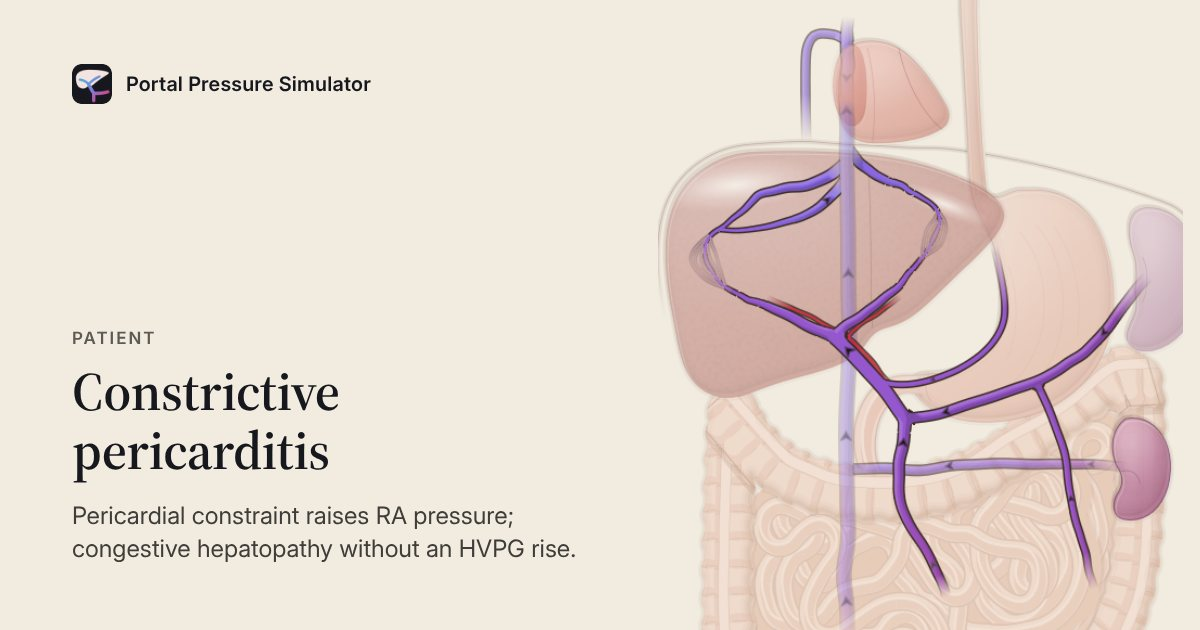
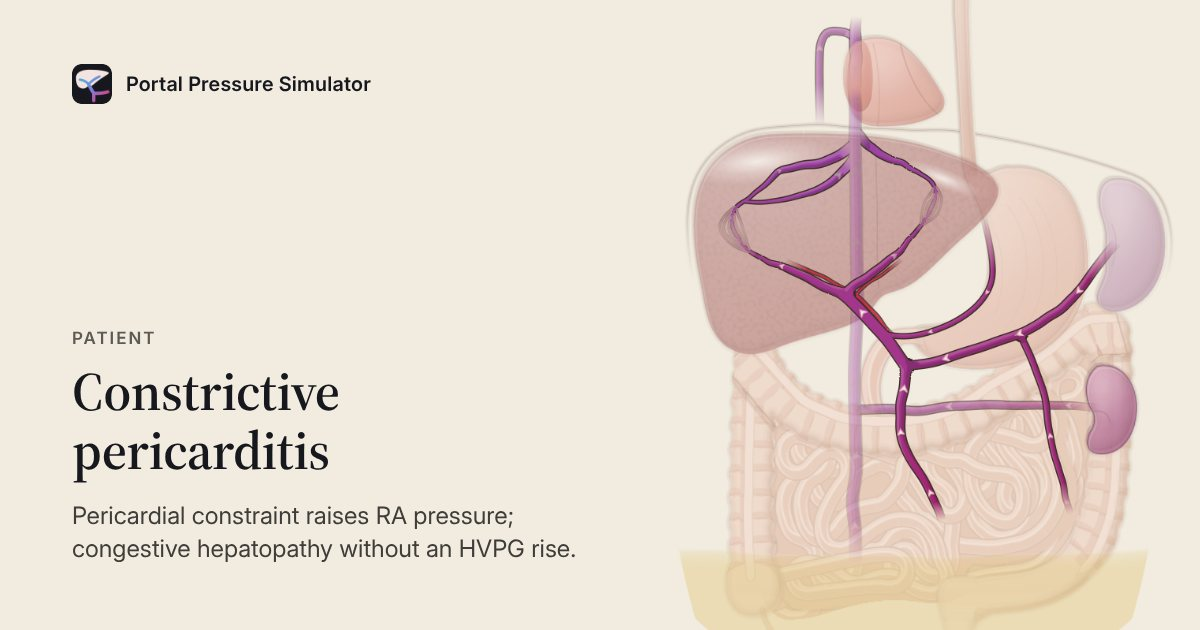
Three patients re-tuned: reversed-flow cirrhosis renamed, acute PVT keeps its output, constrictive pericarditis reaches RA 15+
A22 (Mohammad: Sure). End-stage cirrhosis, hepatofugal flow is now Cirrhosis with reversed portal flow. Acute PVT loads 300 mL (CO 3.5 to 4.9, MAP 82 to 92). Constrictive pericarditis limits the heart's filling (PERICARDIAL_FILL 0.6) and loads 1150 mL (RA 10.5 to 15.7, CO 3.0 to 3.9, MAP 79 to 89). Snapshots, share cards, docs and tests follow. Lint's source-shape rules for the embed, wake-lock and share changes move to rules-lint (PR-02).

Claude-Session: https://claude.ai/code/session_019srS21BY5oz9U3hHYigiNr

Changed region(s): [[0.555, 0.0, 0.9867, 1.0]]

diff --git a/src/engine/scenario.js b/src/engine/scenario.js
@@ -92,7 +92,9 @@ export const PRESETS = [
   { id: 'postprandial', group: 'Normal', label: 'Postprandial', apply: P({ meal: 1 }), days: 0,
     summary: 'Meal-induced splanchnic vasodilation increases portal inflow and pressure slightly.',
     note: 'Postprandial splanchnic vasodilation raises portal inflow, so the portal pressure rises slightly.' },
-  { id: 'pvt-acute', group: 'Pre-hepatic', label: 'Acute portal vein thrombosis', apply: P({ thrombus: { PV_TRUNK: 1 } }), days: 0,
+  // (volume 300: the congested mesenteric bed gives back blood to the central circulation by venoconstriction and the sympathetic reflex, so cardiac output stays near normal
+  // (4.9 L/min, MAP 92 mmHg, heart rate 63) instead of falling to 3.5 with the splanchnic return blocked; 13 Nov 2026.)
+  { id: 'pvt-acute', group: 'Pre-hepatic', label: 'Acute portal vein thrombosis', apply: P({ thrombus: { PV_TRUNK: 1 } }), days: 0, volume: 300,
     summary: 'Occlusive thrombus in the main portal vein. Mesenteric congestion; no collaterals yet (they form over weeks). The hepatic arterial buffer response maintains liver perfusion. HVPG normal.',
     note: 'Occlusive thrombus in the main portal vein. No collaterals yet; the hepatic arterial buffer maintains liver perfusion.' },
   { id: 'pvt-chronic', group: 'Pre-hepatic', label: 'Chronic PVT (cavernous transformation)', apply: P({ thrombus: { PV_TRUNK: 1 } }), days: 240,
@@ -125,7 +127,7 @@ export const PRESETS = [
   { id: 'cirr-decomp', group: 'Sinusoidal', label: 'Decompensated cirrhosis', apply: P({ cirrhosis: 0.85, albumin: 2.8, diuretics: true }), days: 540,
     summary: 'HVPG ≥16 mmHg, large varices, ascites, splenomegaly, hyperdynamic circulation.',
     note: 'HVPG ≥16 mmHg. Large varices, ascites, splenomegaly and a hyperdynamic circulation.' },
-  { id: 'cirr-hepatofugal', group: 'Sinusoidal', label: 'End-stage cirrhosis, hepatofugal flow', apply: P({ cirrhosis: 0.95, apShunt: 1, albumin: 2.6, diuretics: true, spontaneous: { C6: true } }), days: 540,
+  { id: 'cirr-hepatofugal', group: 'Sinusoidal', label: 'Cirrhosis with reversed portal flow', apply: P({ cirrhosis: 0.95, apShunt: 1, albumin: 2.6, diuretics: true, spontaneous: { C6: true } }), days: 540,
     summary: 'Very high sinusoidal resistance plus arterioportal shunting: the portal vein reverses and drains the liver into collaterals.',
     note: 'Very high sinusoidal resistance plus arterioportal shunting. Portal flow reverses into collaterals.' },
   { id: 'gastric-varix', group: 'Sinusoidal', label: 'Cirrhosis with gastrorenal shunt', apply: P({ cirrhosis: 0.9, albumin: 3.0, diuretics: true, spontaneous: { C5: true }, isolatedGV: true }), days: 450,
@@ -148,7 +150,8 @@ export const PRESETS = [
   { id: 'rhf', group: 'Cardiac', label: 'Right heart failure + TR', apply: P({ contractility: 0.25, tr: 0.9 }), days: 60, volume: 1300,
     summary: 'High RA pressure is transmitted back: FHVP and WHVP both rise so HVPG stays normal; the portal vein becomes pulsatile.',
     note: 'High right atrial pressure is transmitted back. FHVP and WHVP both rise, so HVPG stays normal; portal flow is pulsatile.' },
-  { id: 'constrictive', group: 'Cardiac', label: 'Constrictive pericarditis', apply: P({ pericardial: 0.9 }), days: 60, volume: 600,
+  // (volume 1150 with the pericardium limiting the heart's filling (engine.js PERICARDIAL_FILL): RA about 16 mmHg, cardiac output 3.9, MAP 89, ascites about 3 L, HVPG normal; 13 Nov 2026.)
+  { id: 'constrictive', group: 'Cardiac', label: 'Constrictive pericarditis', apply: P({ pericardial: 0.9 }), days: 60, volume: 1150,
     summary: 'Pericardial constraint raises RA pressure; congestive hepatopathy without an HVPG rise.',
     note: 'Pericardial constriction raises RA pressure. Congestive hepatopathy without a rise in HVPG.' },
 ];

diff --git a/src/ui/snapshots.js b/src/ui/snapshots.js
@@ -4,7 +4,7 @@ export const PATH = [["INT","Gut"],["SMV","SMV"],["CONF","Portal v."],["SIN_R","
 export const SNAPSHOTS = {
   "healthy":{"P":[12,9,7.8,7,4.8,4.1,3.5,3],"hvpg":2.4,"pv":7.8,"pvFlow":1.09,"ascites":0,"fp":{"pv":7.8,"whvp":6.5,"fhvp":4.1,"ra":3,"ivc":3.5,"ppg":4.3,"hvpg":2.4,"asc":0,"saag":2.3,"tp":2.9,"lsm":5}},
   "postprandial":{"P":[14.8,10.7,9,7.9,5,4.1,3.3,2.7],"hvpg":3.2,"pv":9,"pvFlow":1.65,"ascites":0,"fp":{"pv":9,"whvp":7.3,"fhvp":4.1,"ra":2.7,"ivc":3.3,"ppg":5.7,"hvpg":3.2,"asc":0,"saag":2.1,"tp":3.2,"lsm":5.4}},
-  "pvt-acute":{"P":[29.7,29.1,28.8,5.1,3.1,2.5,2,1.5],"hvpg":2.2,"pv":28.8,"pvFlow":0,"ascites":0,"fp":{"pv":28.8,"whvp":4.7,"fhvp":2.5,"ra":1.5,"ivc":2,"ppg":26.8,"hvpg":2.2,"asc":0,"saag":3.2,"tp":1.3,"lsm":5}},
+  "pvt-acute":{"P":[32.2,31.5,31.2,6.1,4.3,3.7,3.2,2.7],"hvpg":2.1,"pv":31.2,"pvFlow":0,"ascites":0,"fp":{"pv":31.2,"whvp":5.8,"fhvp":3.7,"ra":2.7,"ivc":3.2,"ppg":28,"hvpg":2.1,"asc":0,"saag":3.3,"tp":1.2,"lsm":5}},
   "pvt-chronic":{"P":[22.6,20.2,19.4,7.7,5.8,5.2,4.7,4.1],"hvpg":2.1,"pv":19.4,"pvFlow":0,"ascites":0,"fp":{"pv":19.4,"whvp":7.3,"fhvp":5.2,"ra":4.1,"ivc":4.7,"ppg":14.7,"hvpg":2.1,"asc":0,"saag":2.7,"tp":2.2,"lsm":5}},
   "svt":{"P":[11.1,8.1,6.9,6.5,4.4,3.7,3.2,2.7],"hvpg":2.3,"pv":6.9,"pvFlow":0.66,"ascites":0,"fp":{"pv":6.9,"whvp":6,"fhvp":3.7,"ra":2.7,"ivc":3.2,"ppg":3.7,"hvpg":2.3,"asc":0,"saag":2.4,"tp":2.8,"lsm":5}},
   "schisto":{"P":[23.5,21.3,20.6,9.3,5.5,5,4.5,4],"hvpg":3.5,"pv":20.6,"pvFlow":0.86,"ascites":0,"fp":{"pv":20.6,"whvp":8.5,"fhvp":5,"ra":4,"ivc":4.5,"ppg":16.1,"hvpg":3.5,"asc":0,"saag":2.6,"tp":2.4,"lsm":6.1}},
@@ -20,5 +20,5 @@ export const SNAPSHOTS = {
   "budd-chiari":{"P":[28.8,26.3,25.3,24.8,24.4,24.4,4,3.5],"hvpg":0.3,"pv":25.3,"pvFlow":0.69,"ascites":7.3,"fp":{"pv":25.3,"whvp":24.7,"fhvp":24.4,"ra":3.5,"ivc":4,"ppg":21.3,"hvpg":0.3,"asc":7275,"saag":1.4,"tp":4.3,"lsm":41.7}},
   "ivc-web":{"P":[20.2,18.1,17.2,16.6,15.8,15.6,15.2,2.9],"hvpg":0.9,"pv":17.2,"pvFlow":0.99,"ascites":2.5,"fp":{"pv":17.2,"whvp":16.5,"fhvp":15.6,"ra":2.9,"ivc":15.2,"ppg":2,"hvpg":0.9,"asc":2545,"saag":1.4,"tp":4.3,"lsm":24.1}},
   "rhf":{"P":[22.6,21.1,20.5,20.1,19.6,19.4,19.1,19],"hvpg":0.6,"pv":20.5,"pvFlow":0.68,"ascites":5.5,"fp":{"pv":20.5,"whvp":20,"fhvp":19.4,"ra":19,"ivc":19.1,"ppg":1.4,"hvpg":0.6,"asc":5471,"saag":1.4,"tp":4.3,"lsm":31.8}},
-  "constrictive":{"P":[14.9,13.3,12.7,12.3,11.3,11,10.7,10.5],"hvpg":1.1,"pv":12.7,"pvFlow":0.66,"ascites":0.4,"fp":{"pv":12.7,"whvp":12.1,"fhvp":11,"ra":10.5,"ivc":10.7,"ppg":2,"hvpg":1.1,"asc":399,"saag":1.5,"tp":4.1,"lsm":15}},
+  "constrictive":{"P":[20.3,18.5,17.8,17.2,16.5,16.3,15.9,15.7],"hvpg":0.8,"pv":17.8,"pvFlow":0.86,"ascites":3.3,"fp":{"pv":17.8,"whvp":17.1,"fhvp":16.3,"ra":15.7,"ivc":15.9,"ppg":1.9,"hvpg":0.8,"asc":3294,"saag":1.4,"tp":4.3,"lsm":25.6}},
 };

diff --git a/tests/share-pages.test.js b/tests/share-pages.test.js
@@ -42,27 +42,13 @@ test('a page names the case\'s picture, absolute when the site address is known,
   assert.match(bare, /twitter:card" content="summary"/);
 });
 
-test('the app\'s own page and manifest carry the preview picture and one theme colour', async () => {
+test('the manifest\'s theme colour is the light page colour', async () => {
   const { readFileSync } = await import('node:fs');
-  const html = readFileSync(new URL('../index.html', import.meta.url), 'utf8');
-  assert.match(html, /og:image" content="https:\/\/[^"]+\/brand\/share\/healthy\.jpg"/);
-  assert.match(html, /twitter:card" content="summary_large_image"/);
   const man = JSON.parse(readFileSync(new URL('../manifest.webmanifest', import.meta.url), 'utf8'));
   assert.equal(man.theme_color, '#F1EBE0');
-  assert.match(html, /name="theme-color" content="#F1EBE0" media="\(prefers-color-scheme: light\)"/);
 });
 
-test('?embed: set on <html> before the first paint, hides the top bar, and the app skips its worker, hint and ask', async () => {
-  const { readFileSync } = await import('node:fs');
-  const html = readFileSync(new URL('../index.html', import.meta.url), 'utf8');
-  assert.match(html, /\[\?&\]embed\(\?=\[=&#\]\|\$\)\/\.test\(location\.search\)\)document\.documentElement\.setAttribute\('data-embed',''\)/);
-  assert.ok(html.indexOf("'data-embed'") < html.indexOf('styles/app.css'));
-  assert.match(readFileSync(new URL('../styles/app.css', import.meta.url), 'utf8'), /html\[data-embed\] \.topbar/);
-  const main = readFileSync(new URL('../src/ui/main.js', import.meta.url), 'utf8');
-  assert.match(main, /location\.protocol !== 'file:' && !EMBED/);
-  assert.match(main, /function showFirstHint\(\) \{\n {2}if \(EMBED\) return;/);
-  assert.match(main, /function armFeedbackAsk\(\) \{\n {2}if \(EMBED\) return;/);
-  assert.match(readFileSync(new URL('../src/ui/presenter.js', import.meta.url), 'utf8'), /function stop\(restore = true\) \{\n {4}if \(!deck \|\| leaving \|\| document\.documentElement\.hasAttribute\('data-embed'\)\) return;/);
+test('?embed is told apart from other words that start with it', () => {
   const re = /[?&]embed(?=[=&#]|$)/;
   for (const q of ['?embed', '?embed&preset=x', '?preset=x&embed=1', '?x=1&embed#s=1']) assert.ok(re.test(q), q);
   for (const q of ['?embedded', '?notembed', '']) assert.ok(!re.test(q), q);

diff --git a/tests/acceptance.test.js b/tests/acceptance.test.js
@@ -95,7 +95,7 @@ test('T7 decompensated cirrhosis + splenorenal shunt: splenic vein reverses', ()
   assert.ok(Q(e, 'SV_CONF') < 0, `SV flow ${Q(e, 'SV_CONF')}`);
 });
 
-test('T8 end-stage cirrhosis with arterioportal shunting: hepatofugal portal vein', () => {
+test('T8 cirrhosis with arterioportal shunting and reversed portal flow: hepatofugal portal vein', () => {
   const e = preset('cirr-hepatofugal');
   assert.ok(Q(e, 'PV_TRUNK') < 0, `PV flow ${Q(e, 'PV_TRUNK')}`);
 });
@@ -318,4 +318,22 @@ test('T-MASLD part of the resistance is before the sinusoids: the HVPG under-rea
   assert.ok(m.ascites.volume < 150, `ascites ${m.ascites.volume} mL`);
   const csph = M(preset('csph'));
   assert.ok(m.ppg - m.hvpg > csph.ppg - csph.hvpg, 'the gap is wider than in sinusoidal CSPH');
+});
+
+test('T-PVT acute portal vein thrombosis keeps a near-normal output (the congested bed gives its blood back), HVPG normal', () => {
+  const m = M(preset('pvt-acute'));
+  within(m.co, 4.5, 5.3, 'CO');
+  within(m.map, 88, 96, 'MAP');
+  within(m.pvFlow, -0.05, 0.05, 'portal flow');
+  within(m.hvpg, 0, 4, 'HVPG');
+});
+
+test('T-CON constrictive pericarditis: RA 15+ with a low-normal output, normal HVPG, ascites', () => {
+  const m = M(preset('constrictive'));
+  within(m.ra, 15, 20, 'RA');
+  within(m.co, 3.4, 4.5, 'CO');
+  within(m.map, 80, 92, 'MAP');
+  within(m.fhvp - m.ra, 0, 2, 'FHVP over RA');
+  within(m.hvpg, 0, 3, 'HVPG');
+  assert.ok(m.ascites.volume > 1000, `ascites ${m.ascites.volume}`);
 });

diff --git a/src/engine/engine.js b/src/engine/engine.js
@@ -64,6 +64,7 @@ export const PARAM_EASE_S = 0.15;
 // Numbers that are choices, not amounts: they change at once.
 const NO_EASE = new Set(['seed', 'splenicRx', 'customShunts', 'catheter']);
 const HR_REST = 60;   // resting heart rate (/min); the contractility reference is scaled to it so cardiac output is unchanged
+const PERICARDIAL_FILL = 0.6;   // constriction limits diastolic filling: the heart's pump capacity falls by this share at full constraint (as the tricuspid term below; 13 Nov 2026, constrictive pericarditis reaches RA 15+ with a low-normal output)
 // Compensation for blood loss, calibrated to the ATLS hemorrhage classes (ATLS 10th ed., 2018): under 15 % lost the
 // vital signs barely change, 15–30 % raises the heart rate with the pressure held, 30–40 % brings hypotension, and over
 // 40 % is severe shock. Two reflexes the arterial baroreflex alone misses:
@@ -423,7 +424,7 @@ export class Engine {
     const pg = pregnancyLevel(p.gestation), add = PREGNANCY.hr * pg, rest = HR_REST * symp + add;
     const hr = clamp(HR_REST * d.hr * (reflex > 0 ? symp + reflex * blunt : symp * (1 + reflex)) + d.hr * add * (reflex > 0 ? 1 : 1 + reflex), 38, 170);
     const contr = p.contractility * (1 + PREGNANCY.contr * pg) * d.contr * clamp(1 + 0.35 * (b - 1), 0.6, 1.6);
-    const cap = contr * Math.pow(hr / rest, 0.6) * (1 - 0.3 * p.tr);
+    const cap = contr * Math.pow(hr / rest, 0.6) * (1 - 0.3 * p.tr) * (1 - PERICARDIAL_FILL * p.pericardial);
     return { hr, cap };
   }
 

diff --git a/tests/wake-lock.test.js b/tests/wake-lock.test.js
@@ -50,11 +50,3 @@ test('a refused request, or a browser without the API, leaves the talk alone', a
   b.keepAwake(true); b.keepAwake(false);
   assert.equal(b.awakeState().supported, false);
 });
-
-test('the talk and the projector both hold it (main.js), and the notes window does too', async () => {
-  const { readFileSync } = await import('node:fs');
-  const main = readFileSync(new URL('../src/ui/main.js', import.meta.url), 'utf8');
-  assert.match(main, /store\.on\('presenting', \(v\) => keepAwake\(!!v \|\| projector\)\)/);
-  assert.match(main, /keepAwake\(projector \|\| !!store\.get\(\)\.presenting\)/);
-  assert.match(readFileSync(new URL('../src/ui/presenter-view-page.js', import.meta.url), 'utf8'), /keepAwake\(!!st\)/);
-});

diff --git a/tests/doppler-drag-smooth.test.js b/tests/doppler-drag-smooth.test.js
@@ -62,7 +62,7 @@ test('a live change still settles within the ease: buffer off leaves about 40% o
   core.handle({ type: 'setParams', params: deepMerge(core.engine().params, { habrStrength: 0 }), ease: 1200 });
   for (let k = 0; k < 40; k++) advance(33);
   const off = computeMetrics(core.engine()).liverPerfPct;
-  assert.ok(on > 60 && on < 80, `buffer on ${on.toFixed(0)}%`);
+  assert.ok(on > 60 && on < 90, `buffer on ${on.toFixed(0)}%`);
   assert.ok(off > 33 && off < 47, `buffer off ${off.toFixed(0)}% (the slide says about 40%)`);
 });
 

diff --git a/CHANGELOG.md b/CHANGELOG.md
@@ -2,6 +2,7 @@
 
 ## November 2026
 
+- **Three patients re-tuned (A22, Mohammad: "Sure").** (13 Nov 2026.) "End-stage cirrhosis, hepatofugal flow" is now **"Cirrhosis with reversed portal flow"** (its model is unchanged: HVPG 12.2, PV flow -0.56 L/min). **Acute PVT** keeps a near-normal output: 300 mL of blood comes back from the congested mesenteric bed (CO 3.5 to 4.9 L/min, MAP 82 to 92, heart rate 85 to 63; liver perfusion with the buffer 72 to 80 %, without it 38 to 44 %). **Constrictive pericarditis** now limits the heart's filling (engine.js PERICARDIAL_FILL, 0.6 of pump capacity at full constraint) and carries 1150 mL (was 600): RA 10.5 to 15.7 mmHg, CO 3.0 to 3.9, MAP 79 to 89, ascites 0.4 to 3.3 L, HVPG 1.1 to 0.8. Share cards re-rendered.
 - **Chronic PVT: the cavernoma is a winding, branching network again, not parallel tubes.** (13 Nov 2026, Mohammad's shot of 0ebaea22.)
   Four strands beside the main channel (one on the hepatic artery's side, three on the right) instead of two, each winding about its course with a gentle wave (STRAND_WAVE) and the main channel's serpentine widened (WIG_CAP 2.4). Neighbours take opposite phases, so they draw together and part like a braid: they anastomose, no centre line crosses another, all leave and rejoin the main channel's ends on the open stumps, except the fine channel on the hepatic artery's side: it is two halves, each ending under the coronary vein 4.5 units short of the trunk (the vein is drawn over them), so the vein's root no longer passes over that channel and no blunt end shows (src/ui/cavernoma-strand.js, STRAND_TIE). The channels keep their order across the trunk, the hepatic artery's 4.2 clearance and the 30 degree kink limit (tests/cavernoma-plexus.test.js, which now measures a gap of at least 2.4 units instead of 6.5, since the tubes are meant to meet and part).
 - **Labels: the reversal icon stays on a shortened label, a vein with reversed flow always has its station, and a vessel half off the stage keeps its label.** (13 Nov 2026, Mohammad's iPhone shot of End-stage cirrhosis: the left portal vein had no label, and the main portal vein, with reversed chevrons, read "PV" with no ⟲.)

diff --git a/docs/deck-authoring-guide.md b/docs/deck-authoring-guide.md
@@ -661,7 +661,7 @@ handle opens the view. (Varices 3 used it; it now has the scope ring instead.)
 | `cirr-comp` | Sinusoidal (`sin`) | Compensated cirrhosis | 365 | cirrhosis 0.4, HVPG 6–9, no varices |
 | `csph` | Sinusoidal | Clinically significant PH | 365 | cirrhosis 0.6, HVPG ≥ 10, small varices |
 | `cirr-decomp` | Sinusoidal | Decompensated cirrhosis | 540 | cirrhosis 0.85, albumin 2.8, diuretics; large varices, ascites |
-| `cirr-hepatofugal` | Sinusoidal | End-stage cirrhosis, hepatofugal flow | 540 | cirrhosis 0.95, arterioportal shunting, splenorenal shunt |
+| `cirr-hepatofugal` | Sinusoidal | Cirrhosis with reversed portal flow | 540 | cirrhosis 0.95, arterioportal shunting, splenorenal shunt |
 | `masld-csph` | Sinusoidal | MASLD cirrhosis, HVPG under-reads | 365 | cirrhosis 0.6 with the presinusoidal multiplier 4 in both lobes: HVPG about 11, PPG about 14, small varices, no ascites (Baveno VIII 2.5) |
 | `gastric-varix` | Sinusoidal | Cirrhosis with gastrorenal shunt | 450 | isolated fundal varices (IGV1) fed by the short and posterior gastric veins, draining through the `C5` gastrorenal shunt (BRTO target); no esophageal varices until BRTO closes the shunt |
 | `pregnancy` | Sinusoidal | Cirrhosis in pregnancy | 365 | cirrhosis 0.62 (small varices, HVPG about 12), then `gestation: 24` once the disease days have run; `params: { gestation: 0 }` shows her before pregnancy |
@@ -671,7 +671,7 @@ handle opens the view. (Varices 3 used it; it now has the scope ring instead.)
 | `rhf` | Cardiac (`cardiac`) | Right heart failure + TR | 60 | HVPG stays normal; pulsatile portal vein |
 | `constrictive` | Cardiac | Constrictive pericarditis | 60 | high RA, HVPG normal |
 
-`ivc-web`, `rhf` and `constrictive` also load extra blood volume (800, 1300 and 600 mL) with the patient.
+`ivc-web`, `rhf`, `constrictive` and `pvt-acute` also load extra blood volume (800, 1300, 1150 and 300 mL) with the patient.
 
 ### 8.2 Parameters (`params`, deep-merged; ranges are clamped)
 

diff --git a/docs/DESIGN_BLUEPRINT.md b/docs/DESIGN_BLUEPRINT.md
@@ -556,7 +556,7 @@ for fairness) in the worker when the user asks. Cache the result until the state
 | Cardiac | **Right heart failure / TR** | Contractility ↓, TR ↑ | RA ↑↑, FHVP and WHVP both ↑, **HVPG normal**, **pulsatile PV**, high-protein ascites |
 | Cardiac | **Constrictive pericarditis** | Pericardial constraint ↑ | Similar to RHF, with a respiratory pattern |
 
-The app has 19 presets (`src/engine/scenario.js`, listed in `docs/deck-authoring-guide.md` 8.1). Beyond this table (the porto-sinusoidal patient is a second presinusoidal one, beside schistosomiasis): end-stage cirrhosis with hepatofugal flow, MASLD cirrhosis (HVPG under-reads), cirrhosis with a gastrorenal shunt (isolated fundal varices), and cirrhosis in pregnancy.
+The app has 19 presets (`src/engine/scenario.js`, listed in `docs/deck-authoring-guide.md` 8.1). Beyond this table (the porto-sinusoidal patient is a second presinusoidal one, beside schistosomiasis): cirrhosis with reversed portal flow, MASLD cirrhosis (HVPG under-reads), cirrhosis with a gastrorenal shunt (isolated fundal varices), and cirrhosis in pregnancy.
 
 ### 10.2 Interventions library
 
